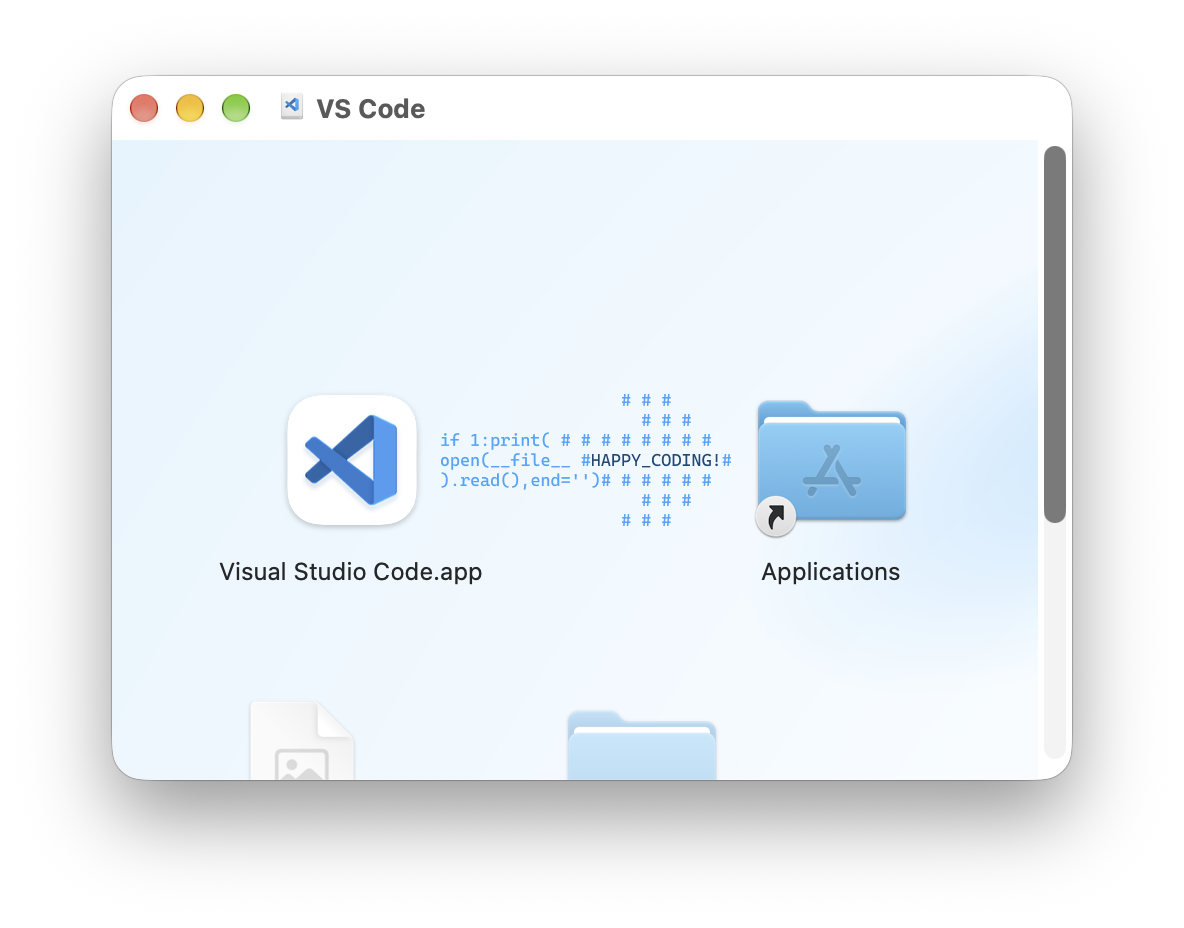
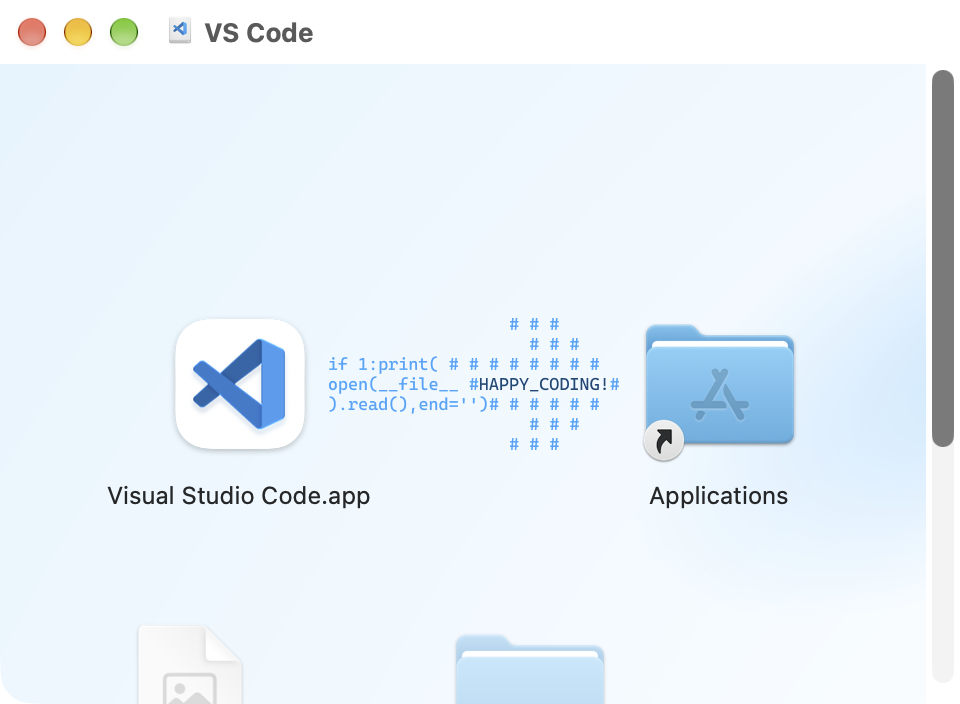
Update VS Code installation instructions with improved formatting and visual aid

diff --git a/slides/Recitation1/Recitation1.md b/slides/Recitation1/Recitation1.md
@@ -68,11 +68,22 @@ makeThanks: true
   - 打开 VS Code 官网：[`https://code.visualstudio.com`](https://code.visualstudio.com)
   - 下载对应系统的安装包（Windows 是 `.exe`，macOS 是 `.dmg`，Linux 可用 `.deb` / `.rpm` 等）
     - macOS 需要打开 `dmg` 文件之后将 VS Code 拖动到 Application 即可
-    <img src="images/vscode_dmg.png" width="50%" style="display: block; margin: 0 auto;">
+    <img src="images/vscode_dmg.png" width="60%" style="display: block; margin: 0 auto;">
+
+<!--v-->
+
+## 安装 VS Code
+
 - 或者用自带的包管理器（注意网络环境，可以自行搜索）
   - macOS 可用 `brew` 或者自带应用商店
-    - `brew`安装：`/bin/bash -c "$(curl -fsSL https://raw.githubusercontent.com/Homebrew/install/HEAD/install.sh)"`
-    - 通过`brew`安装VS Code：`brew install visual-studio-code`
+    - `brew`安装：
+    ```bash
+    /bin/bash -c "$(curl -fsSL https://raw.githubusercontent.com/Homebrew/install/HEAD/install.sh)"
+    ```
+    - 通过`brew`安装VS Code：
+    ```bash
+    brew install visual-studio-code
+    ```
   - Windows 可以用 `winget`
 
 <!--v-->
